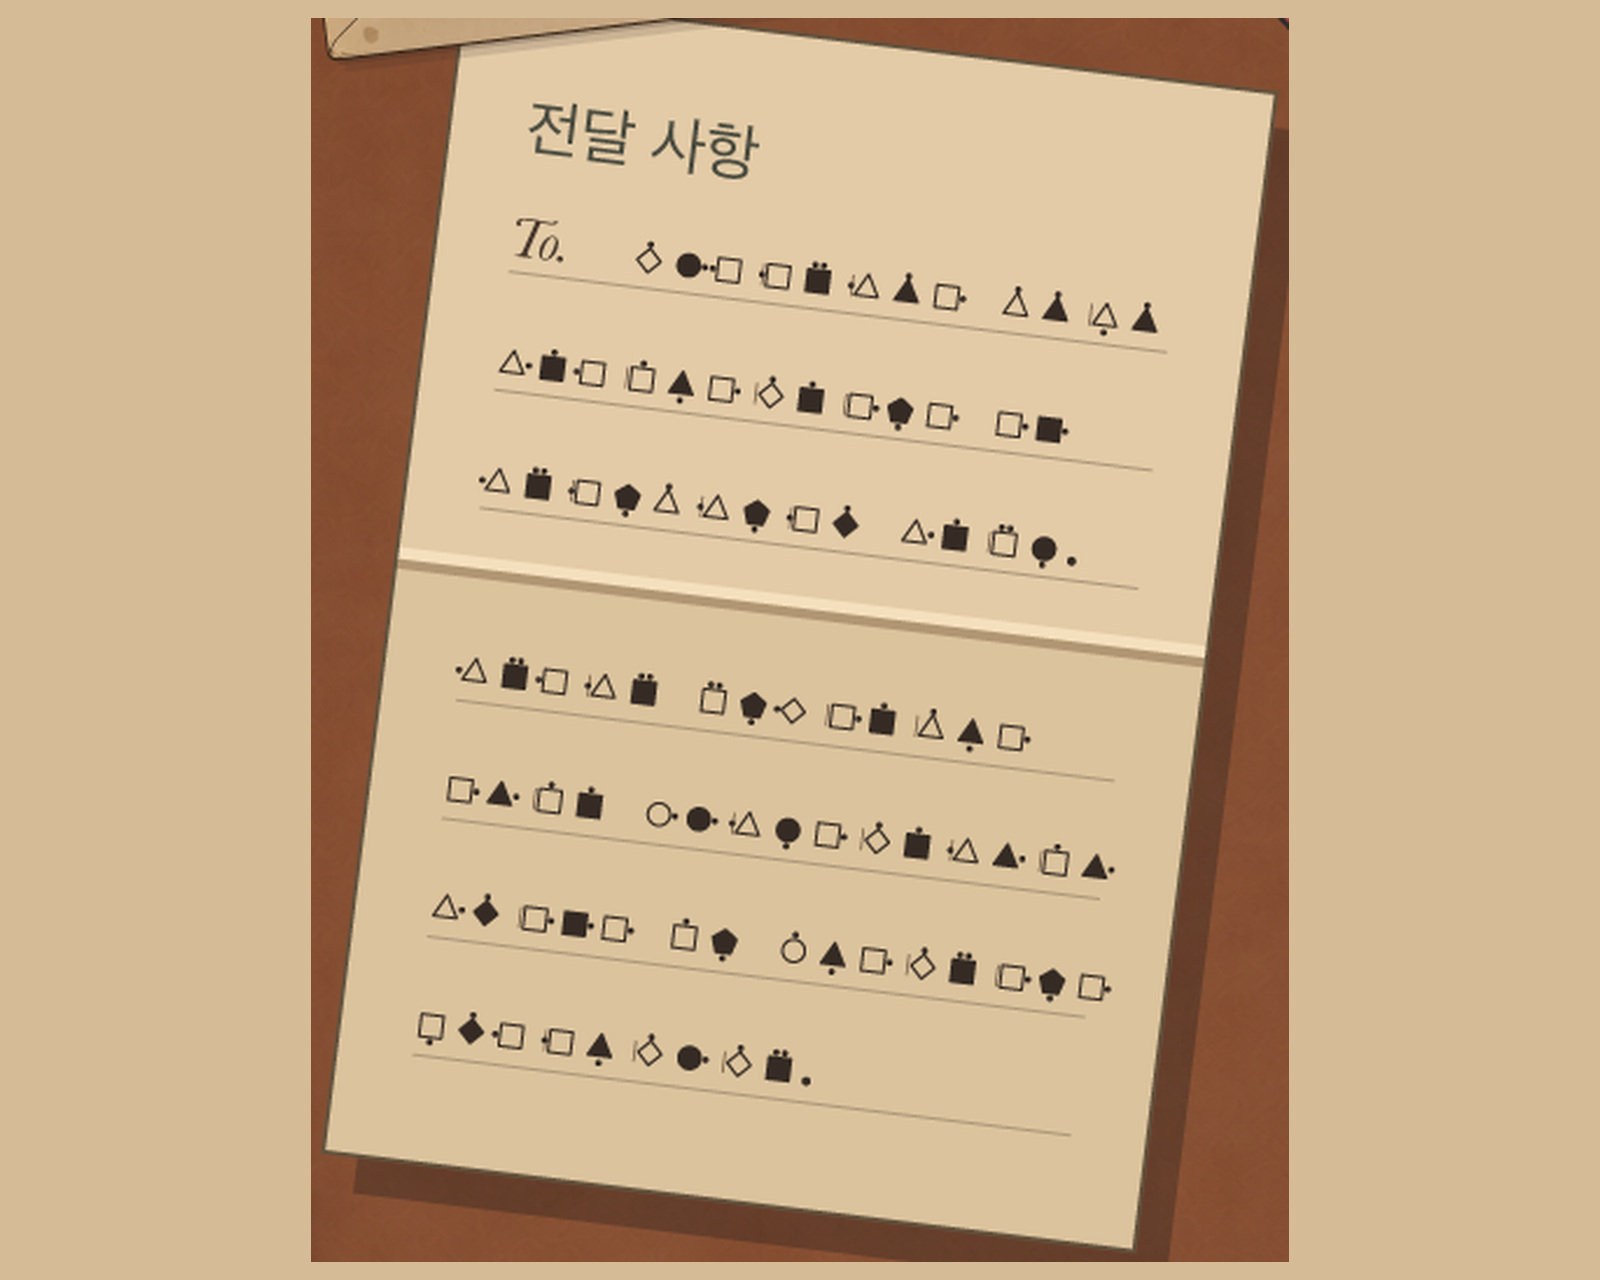
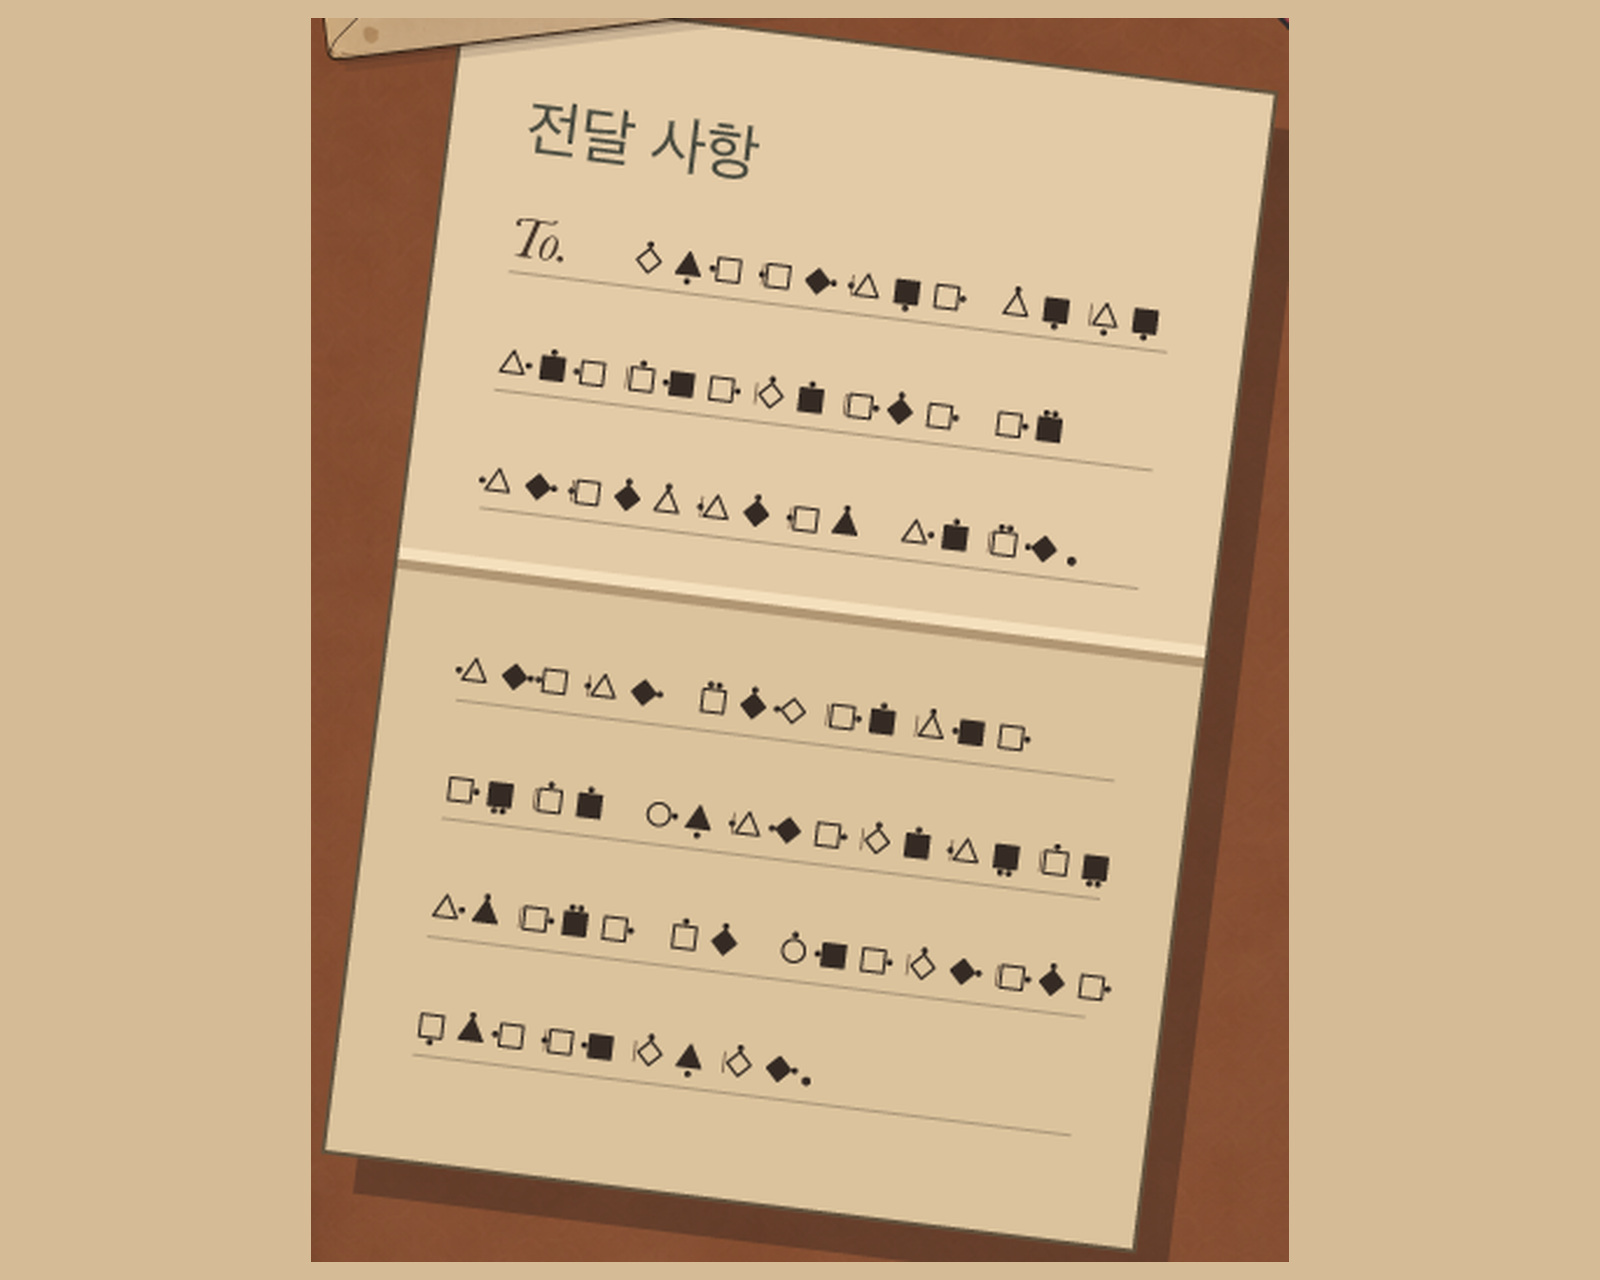
Encode Korean compound vowels with a second dot

diff --git a/traces-of-guilt/case-data.js b/traces-of-guilt/case-data.js
@@ -6,7 +6,7 @@ const illustrations = {
   console: "planetarium/console.png?v=clue-art-refresh",
   photo: "planetarium/photo.png?v=clue-art-refresh",
   drawer: "planetarium/drawer.png?v=weight-columns",
-  proof: "planetarium/proof.png?v=ordered-vowels"
+  proof: "planetarium/proof.png?v=stroke-vowels"
 };
 
 export const caseFile = {
@@ -88,7 +88,7 @@ export const caseFile = {
   hints: [
     "진행표에 적힌 순서와 실제 리허설이 일치하는지 확인해 보세요.",
     "기자가 찍은 리허설 사진과 서랍 속 관측 자료 대조표를 비교해 보세요. 두 자료에서 어떤 사실을 확인할 수 있을까요?",
-    "교정쇄 옆 편지는 누구에게 보내려던 걸까요? ‘To.’ 뒤에 기자의 이름을 대입해 보세요. 검은 도형은 ㅏ·ㅐ·ㅑ·ㅒ부터 시작하는 한글 모음 순서예요. 사각형, 삼각형, 마름모, 원, 오각형 차례로 위·오른쪽·아래·왼쪽을 채워요.",
+    "교정쇄 옆 편지는 누구에게 보내려던 걸까요?",
     "소리가 나기 직전의 증언을 나란히 읽어 보세요. 각자가 있던 자리와 보고 들은 내용을 비교하면, 서로 맞지 않는 대목이 있나요?"
   ],
   suspects: [
@@ -118,12 +118,12 @@ export const caseFile = {
         ["diamond", 2, "ㅉ---"]
       ],
       vowels: [
-        ["square", 1, "ㅏㅐㅑㅒ"],
-        ["triangle", 1, "ㅓㅔㅕㅖ"],
-        ["diamond", 1, "ㅗㅘㅙㅚ"],
-        ["circle", 1, "ㅛㅜㅝㅞ"],
-        ["pentagon", 1, "ㅟㅠㅡㅢ"],
-        ["square", 2, "ㅣ---"]
+        ["square", 1, "ㅏㅑㅓㅕ"],
+        ["triangle", 1, "ㅗㅛㅜㅠ"],
+        ["diamond", 1, "ㅡㅣㅘㅝ"],
+        ["square", 2, "ㅐㅒㅔㅖ"],
+        ["triangle", 2, "ㅚ-ㅟ-"],
+        ["diamond", 2, "ㅢ-ㅙㅞ"]
       ]
     },
     stepsTitle: "장면별 해설",
@@ -195,19 +195,19 @@ export const caseFile = {
         text: "줄리언은 리허설 전에 기사 교정쇄를 소장실에 두고 나왔어요. 불이 꺼진 뒤에는 객석 통로에서 천장을 찍었고, 카메라를 내리기도 전에 충돌음을 들었다고 했어요. 그녀를 의심하게 만드는 건 책상에 남은 암호 편지예요."
       },
       {
-        image: "planetarium/solution/12-cipher-addressee.jpg?v=ordered-vowels",
+        image: "planetarium/solution/12-cipher-addressee.jpg?v=stroke-vowels",
         alt: "줄리언 머서의 기자 이름과 To.로 시작하는 암호 편지",
         title: "수신인 이름으로 암호 풀기",
-        text: "교정쇄의 ‘줄리언 머서’를 편지의 To. 뒤에 대입하면 수신인을 알 수 있어요. ‘줄’의 ㅈ·ㅜ·ㄹ은 빈 마름모의 위 점, 검은 원의 오른쪽 점, 빈 사각형의 왼쪽 점이에요. 이 순서로 본문의 음절도 한 글자씩 풀 수 있어요."
+        text: "교정쇄의 ‘줄리언 머서’를 편지의 To. 뒤에 대입하면 수신인을 알 수 있어요. ‘줄’의 ㅈ·ㅜ·ㄹ은 빈 마름모의 위 점, 검은 삼각형의 아래 점, 빈 사각형의 왼쪽 점이에요. 이 순서로 본문의 음절도 한 글자씩 풀 수 있어요."
       },
       {
-        image: "planetarium/solution/13-cipher-letter.jpg?v=ordered-vowels",
+        image: "planetarium/solution/13-cipher-letter.jpg?v=stroke-vowels",
         alt: "기사 교정쇄 옆에 남은 문양 암호 편지",
         title: "편지에는 발견자를 바꾸라고 쓰여 있어요",
         text: "편지는 “발견자는 내 이름으로 바꿔. 일이 끝나면 네가 후원자에게 보낸 그 편지는 돌려주지.”라고 읽혀요. 줄리언에게도 자신을 압박하던 소장을 원망할 이유가 있었어요. 이번 지시는 책상에 남아 있었고, 충돌 직전 줄리언의 동선은 객석에서 찍은 사진과 이어져요."
       },
       {
-        image: "planetarium/solution/14-letter-and-notice.jpg?v=ordered-vowels",
+        image: "planetarium/solution/14-letter-and-notice.jpg?v=stroke-vowels",
         alt: "발견자 이름을 바꾸라는 암호 편지 본문과 에드워드 헤일의 연임 심사 통지서",
         title: "소장이 공로를 원했던 이유",
         text: "공문에는 에드워드가 직접 주도한 연구 실적을 입증해야 연임할 수 있다고 적혀 있어요. 발견자 이름을 자기 이름으로 바꾸라는 편지를 함께 보면, 소장이 베넷의 발견을 자기 실적으로 발표하려 한 이유가 드러나요."

diff --git a/traces-of-guilt/game.js b/traces-of-guilt/game.js
@@ -1,4 +1,4 @@
-import { caseFile } from "./case-data.js?v=reporter-expression";
+import { caseFile } from "./case-data.js?v=stroke-vowels";
 
 const entrance = document.querySelector(".entrance");
 const enterButton = entrance.querySelector(".enter-room");
@@ -289,7 +289,7 @@ function hints(left, right) {
 
 function cipherTable(rows, title, filled) {
   const directions = [["north", "위"], ["east", "오른쪽"], ["south", "아래"], ["west", "왼쪽"]];
-  const shapeNames = { square: "사각형", triangle: "삼각형", diamond: "마름모", circle: "원", pentagon: "오각형" };
+  const shapeNames = { square: "사각형", triangle: "삼각형", diamond: "마름모", circle: "원" };
   const baseLetters = new Map(rows.filter(([, dots]) => dots === 1).map(([shape, , letters]) => [shape, letters]));
   return `<table class="cipher-table">
     <caption>${title}</caption>
@@ -301,7 +301,7 @@ function cipherTable(rows, title, filled) {
           <span class="cipher-glyph" data-shape="${shape}" data-direction="${directions[index][0]}" data-filled="${filled}" aria-hidden="true">
             <span class="cipher-shape"></span><span class="cipher-dots"><i></i>${dots === 2 ? "<i></i>" : ""}</span>
           </span>
-          <span class="cipher-letter">${dots === 2 && !filled ? `<span class="cipher-base">${baseLetters.get(shape)[index]} → </span>` : ""}${letter}</span>
+          <span class="cipher-letter">${dots === 2 ? `<span class="cipher-base">${baseLetters.get(shape)[index]} → </span>` : ""}${letter}</span>
         </span>
       </td>`).join("")}
     </tr>`).join("")}</tbody>
@@ -310,7 +310,7 @@ function cipherTable(rows, title, filled) {
 
 function cipherGuide(cipher) {
   return `<p>빈 도형은 자음, 검게 채운 도형은 모음이에요. 점의 위치와 개수로 자모를 구별해요. 짧은 세로선은 음절을 나누고, 넓은 여백은 어절을 나눠요.</p>
-    <p>자음에서 <strong>점 두 개</strong>는 ㄱ에서 ㄲ으로 바뀌는 것처럼 쌍자음을 뜻해요. 모음은 한글 모음 순서대로 다섯 도형을 채워요. 각 도형에서 위·오른쪽·아래·왼쪽으로 돌고, 마지막 ㅣ는 사각형으로 돌아가 위에 점을 두 개 찍어요.</p>
+    <p>자음에서 <strong>점 두 개</strong>는 ㄱ에서 ㄲ으로 바뀌는 것처럼 쌍자음을 뜻해요. 모음에서는 ㅏ에 ㅣ가 붙어 ㅐ가 되는 것처럼, 기본 모음에 세로획 ㅣ가 붙으면 같은 도형의 같은 방향에 점을 하나 더 찍어요.</p>
     <div class="cipher-tables">
       ${cipherTable(cipher.consonants, "자음 · 빈 도형", false)}
       ${cipherTable(cipher.vowels, "모음 · 검은 도형", true)}

diff --git a/traces-of-guilt/style.css b/traces-of-guilt/style.css
@@ -1799,7 +1799,6 @@ main { overflow: clip; }
 .cipher-glyph[data-shape="triangle"] { --cipher-outline: polygon(50% 0, 100% 100%, 0 100%); }
 .cipher-glyph[data-shape="diamond"] { --cipher-outline: polygon(50% 0, 100% 50%, 50% 100%, 0 50%); }
 .cipher-glyph[data-shape="circle"] { --cipher-outline: circle(50%); }
-.cipher-glyph[data-shape="pentagon"] { --cipher-outline: polygon(50% 0, 100% 38%, 81% 100%, 19% 100%, 0 38%); }
 .cipher-shape, .cipher-shape::after { clip-path: var(--cipher-outline, inset(0)); }
 .cipher-shape { display: grid; place-items: center; width: .86rem; height: .86rem; background: currentColor; }
 .cipher-glyph[data-filled="false"] .cipher-shape::after {

diff --git a/traces-of-guilt/index.html b/traces-of-guilt/index.html
@@ -8,8 +8,8 @@
   <meta name="site-kind" content="gaming">
   <title>Traces of Guilt</title>
   <link rel="canonical" href="https://iontail.github.io/traces-of-guilt/">
-  <link rel="stylesheet" href="style.css?v=revised-evidence">
-  <script src="game.js?v=reporter-expression" type="module"></script>
+  <link rel="stylesheet" href="style.css?v=stroke-vowels">
+  <script src="game.js?v=stroke-vowels" type="module"></script>
 </head>
 <body>
   <svg class="icon-definitions" aria-hidden="true" xmlns="http://www.w3.org/2000/svg">
